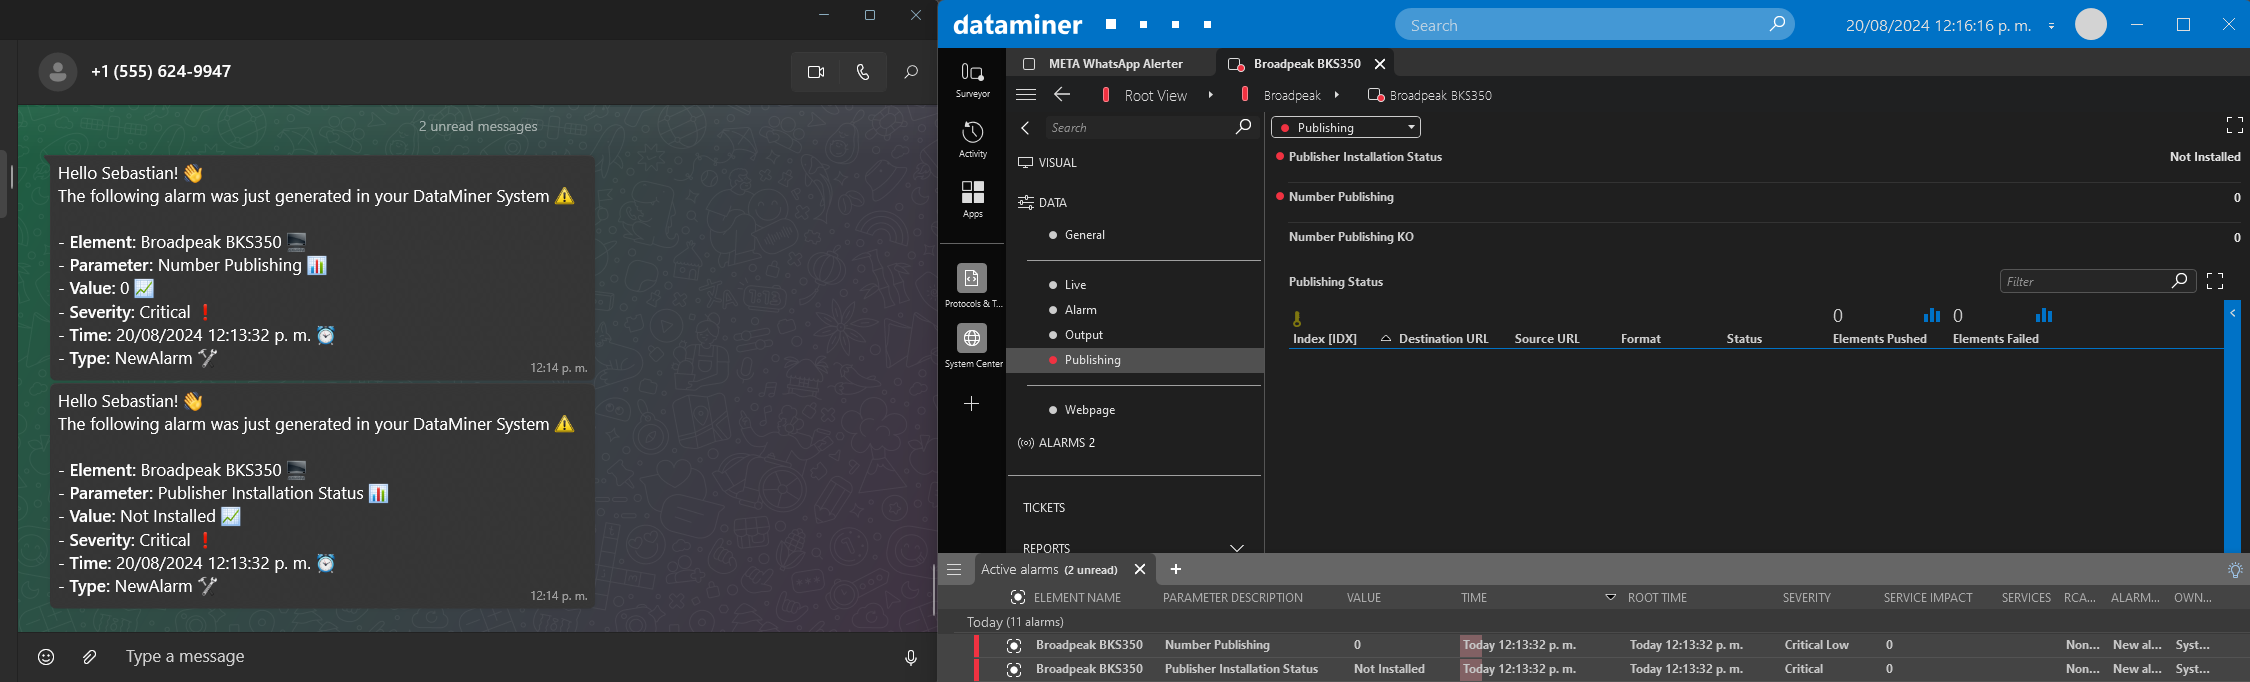
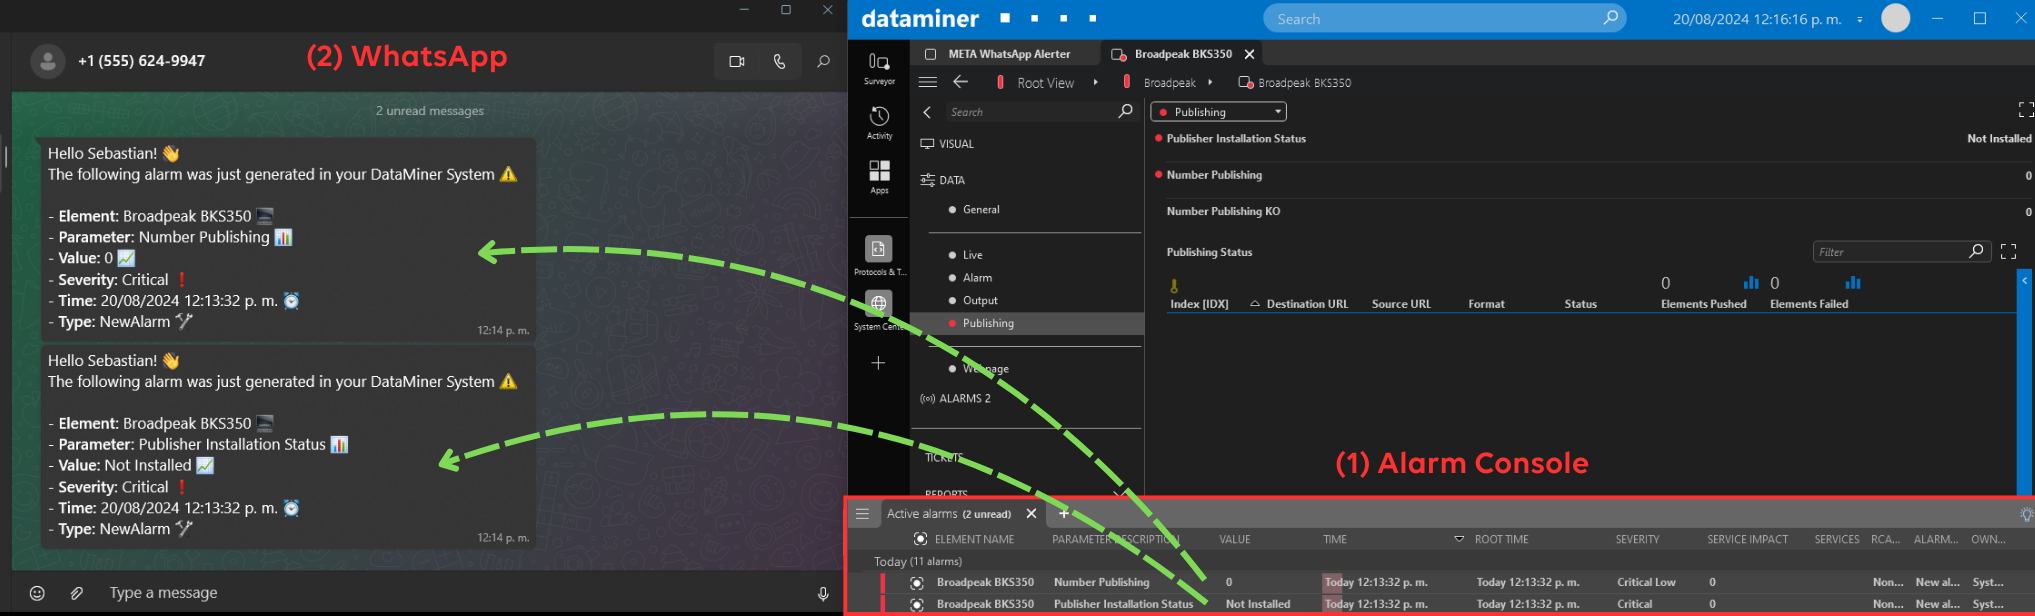
Partial review

diff --git a/user-guide/Standard_Apps/Monitoring_Solutions/META_WhatsApp_Messaging/META_WhatsApp_Messaging_Installation.md b/user-guide/Standard_Apps/Monitoring_Solutions/META_WhatsApp_Messaging/META_WhatsApp_Messaging_Installation.md
@@ -6,27 +6,55 @@ uid: META_WhatsApp_Messaging_Installation
 
 ## Prerequisites
 
-### 1. Register on Meta Developers platform
+- Make sure you are [registered as a Meta Developer](https://developers.facebook.com/docs/development/register).
 
-- Follow the steps described in the following page to [*register as META developer*](https://developers.facebook.com/docs/development/register).
-- Once registered, go to *“My Apps”* and then, press *“Create App”*.
-- Select *“I don't want to connect a business portfolio yet”*.
-- For use case, select *“Other”*.
-- The app type should be *“Business”* in this case.
-- Give a name to the app and attach an email to it.
+## Create the 'DataMiner Alarm Notification' app
 
-![App in META Developers Account](~/user-guide/images/META_WhatsApp_Messaging_MetaRegister.png)
+1. Navigate to *My Apps* and select *Create App*.
 
-### 2. Create a Business Manager account
+1. Select *I don't want to connect a business portfolio yet*.
 
-- Go to the [*Meta Business Suite*](https://business.facebook.com/).
-- Create a new account by specifying a business name, the owner name, and the email desired to be associated with the business.
-- Set the required details of the business.
-- Confirm the business email address.
+1. Select *Other* as the use case.
+
+1. Set the app type to *Business*.
+
+1. Specify the following app details:
+
+     - Name: `DataMiner Alarm Notification`
+
+     - Email address: The email address to be used to contact you about this app
+
+1. Click *Create App*.
+
+   Your app will be loaded in the app Dashboard.
+
+   ![App in META Developers Account](~/user-guide/images/META_WhatsApp_Messaging_MetaRegister.png)
+
+> [!TIP]
+> See also: [App Type Creation Flow](https://developers.facebook.com/docs/development/create-an-app/other-app-types)
+
+## Create a Business Manager account
+
+1. Go to the [*Meta Business Suite*](https://business.facebook.com/) and select *Create an account*.
+
+1. Provide the following information:
+
+   - Your business name
+
+   - Your name (i.e. the owner)
+
+   - Your business email (i.e. the email address you will use to conduct company business)
+
+     > [!NOTE]
+     > Make sure you choose an email address you have access to as you will need to confirm it later.
+
+1. Specify the required details of the business.
+
+1. Confirm the business email address.
 
 ![META Business Account](~/user-guide/images/META_WhatsApp_Messaging_BusinessAccount.png)
 
-### 3. Add WhatsApp to the App and send Test Message
+## Add WhatsApp to the app and send test message
 
 - Back on the developer page, in the *"Add Products"* section, find WhatsApp and press *"Set up"*.
 - Go to the WhatsApp *"Quick Start"* and select the commercial portfolio you created in the previous step.
@@ -40,7 +68,7 @@ uid: META_WhatsApp_Messaging_Installation
 
 ![META App](~/user-guide/images/META_WhatsApp_Messaging_MetaApp.png)
 
-### 4. Create a System User
+### Create a System User
 
 - Go to [*Meta Business Suite*](https://business.facebook.com/) again.
 - In the *Users > System Users* section, add a new system user giving it a name and a role (*Employee* or *Admin*).

diff --git a/user-guide/Standard_Apps/Monitoring_Solutions.md b/user-guide/Standard_Apps/Monitoring_Solutions.md
@@ -21,26 +21,29 @@ uid: Monitoring_Solutions
     <a href="/user-guide/Standard_Apps/Monitoring_Solutions/DITT/Dataminer_IT_Tool_Overview.html" title="IT Tools" target="_self"><img src="~/user-guide/images/DataMiner_IT_Tools.svg" style="width:100%"></a>
   </div> 
   <div class="column">
-    <a href="/user-guide/Standard_Apps/Monitoring_Solutions/DataMiner_Objects_Tool/DataMiner_Objects_Tool.html" title="DataMiner Objects tool" target="_self"><img src="~/user-guide/images/DataMiner_objects_tool.svg" style="width:100%"></a>
+    <a href="/user-guide/Standard_Apps/Monitoring_Solutions/META_WhatsApp_Messaging/META_WhatsApp_Messaging.html" title="META WhatsApp Messaging" target="_self"><img src="~/user-guide/images/META_WhatsApp_Messaging.svg" style="width:100%"></a>
   </div>
   <div class="column">
-    <a href="/user-guide/Standard_Apps/Monitoring_Solutions/Ping_Monitoring/PingMonitoring.html" title="Ping Monitoring" target="_self"><img src="~/user-guide/images/Ping_Monitoring.svg" style="width:100%"></a>
+    <a href="/user-guide/Standard_Apps/Monitoring_Solutions/DataMiner_Objects_Tool/DataMiner_Objects_Tool.html" title="DataMiner Objects tool" target="_self"><img src="~/user-guide/images/DataMiner_objects_tool.svg" style="width:100%"></a>
   </div>
 </div>
 
 <div class="row"> 
+  <div class="column">
+    <a href="/user-guide/Standard_Apps/Monitoring_Solutions/Ping_Monitoring/PingMonitoring.html" title="Ping Monitoring" target="_self"><img src="~/user-guide/images/Ping_Monitoring.svg" style="width:100%"></a>
+  </div>
   <div class="column">
     <a href="/user-guide/Standard_Apps/Monitoring_Solutions/PLM_Tool/DataMiner_PLM_Tool_Overview.html" title="PLM tool" target="_self"><img src="~/user-guide/images/PLM.svg" style="width:100%"></a>
   </div>
   <div class="column">
     <a href="/user-guide/Standard_Apps/Monitoring_Solutions/Vecima_Remote_PHY_Monitor/Remote_PHY_Monitoring.html" title="Remote PHY Monitoring" target="_self"><img src="~/user-guide/images/Remote_PHY_Monitoring.svg" style="width:100%"></a>
   </div>
-  <div class="column">
-    <a href="/user-guide/Standard_Apps/Monitoring_Solutions/Smart_Trap_Processor/Smart_Trap_Processor_Overview.html" title="Smart Trap Processor" target="_self"><img src="~/user-guide/images/Smart_Trap_Processor.svg" style="width:100%"></a>
-  </div>  
 </div>
 
 <div class="row"> 
+  <div class="column">
+    <a href="/user-guide/Standard_Apps/Monitoring_Solutions/Smart_Trap_Processor/Smart_Trap_Processor_Overview.html" title="Smart Trap Processor" target="_self"><img src="~/user-guide/images/Smart_Trap_Processor.svg" style="width:100%"></a>
+  </div>  
   <div class="column">
     <a href="/user-guide/Standard_Apps/Monitoring_Solutions/TAG/TAG_Overview.html" title="Tag Management app" target="_self"><img src="~/user-guide/images/Tag_Management.svg" style="width:100%"></a>
   </div>  

diff --git a/user-guide/Standard_Apps/Monitoring_Solutions/META_WhatsApp_Messaging/META_WhatsApp_Messaging.md b/user-guide/Standard_Apps/Monitoring_Solutions/META_WhatsApp_Messaging/META_WhatsApp_Messaging.md
@@ -4,11 +4,11 @@ uid: META_WhatsApp_Messaging
 
 # META WhatsApp Messaging solution
 
-The **META WhatsApp Messaging** solution acts as a link between your DataMiner system Alarm Console and the WhatsApp API, enabling you to deliver critical alarms directly to designated users WhatsApp devices.
-
-By eliminating the need for constant monitoring of the DataMiner Alarm Console by support or management teams, this solution empowers authorized personnel to stay informed about system status and respond promptly to issues, regardless of their location.
-
-> [!NOTE]
-> Take into account that there are some *prerequisites* to be fulfilled before installing this solution. Check [***the installation guide***](xref:META_WhatsApp_Messaging_Installation) for more details.
+The META WhatsApp Messaging solution acts as a link between the [Alarm Console](xref:Working_with_the_Alarm_Console) (1) and the WhatsApp API, allowing critical alarms to be sent directly to designated users' WhatsApp devices (2).
 
 ![META WhatsApp Messaging cover](~/user-guide/images/META_WhatsApp_Messaging_Cover.png)
+
+This solution eliminates the need for constant monitoring of the Alarm Console by support or management teams, enabling authorized personnel to stay informed about system status and respond to issues promptly, regardless of their location.
+
+> [!IMPORTANT]
+> Before installing this solution, ensure that you meet all [prerequisites](xref:META_WhatsApp_Messaging_Installation#prerequisites).

diff --git a/user-guide/Standard_Apps/Monitoring_Solutions/META_WhatsApp_Messaging/Using_META_WhatsApp_Messaging.md b/user-guide/Standard_Apps/Monitoring_Solutions/META_WhatsApp_Messaging/Using_META_WhatsApp_Messaging.md
@@ -1,0 +1,5 @@
+---
+uid: Using_META_WhatsApp_Messaging
+---
+
+# Using the META WhatsApp Messaging solution
